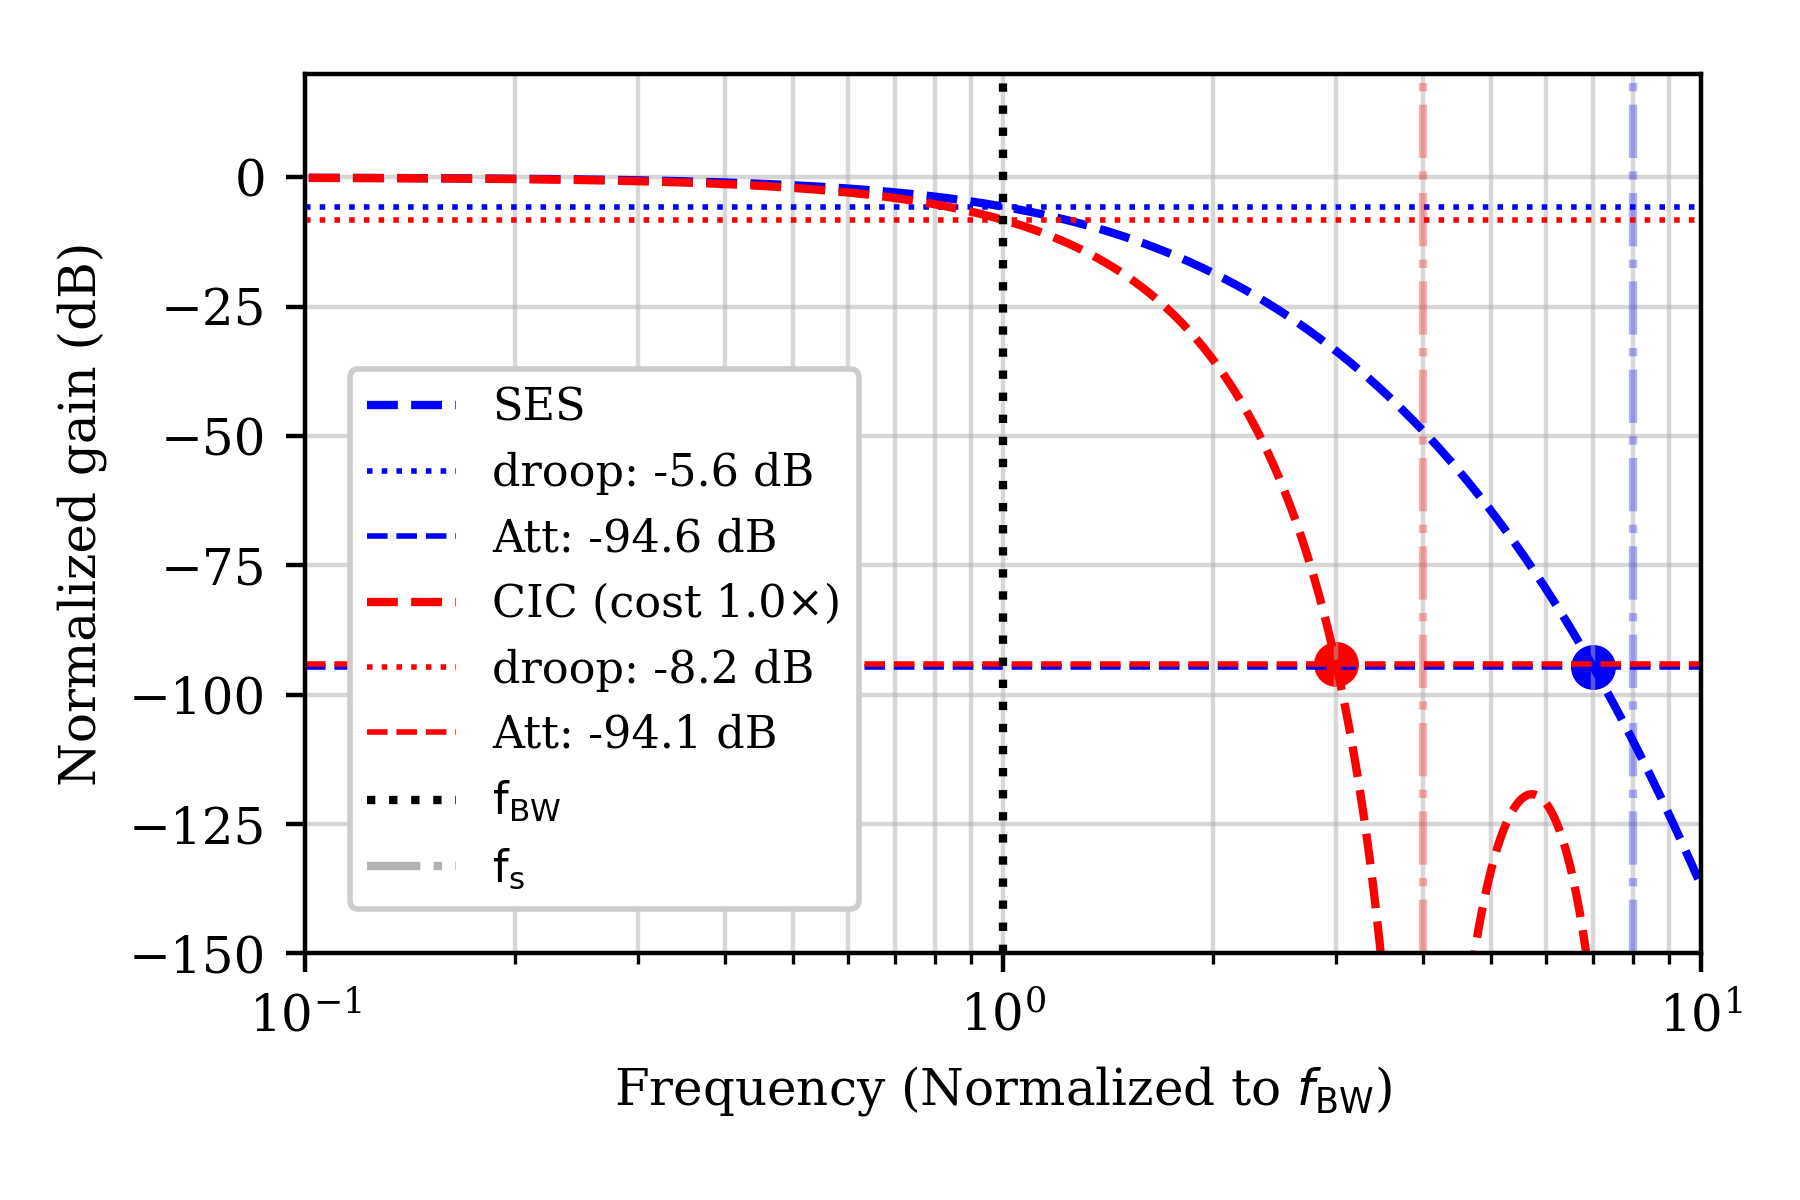
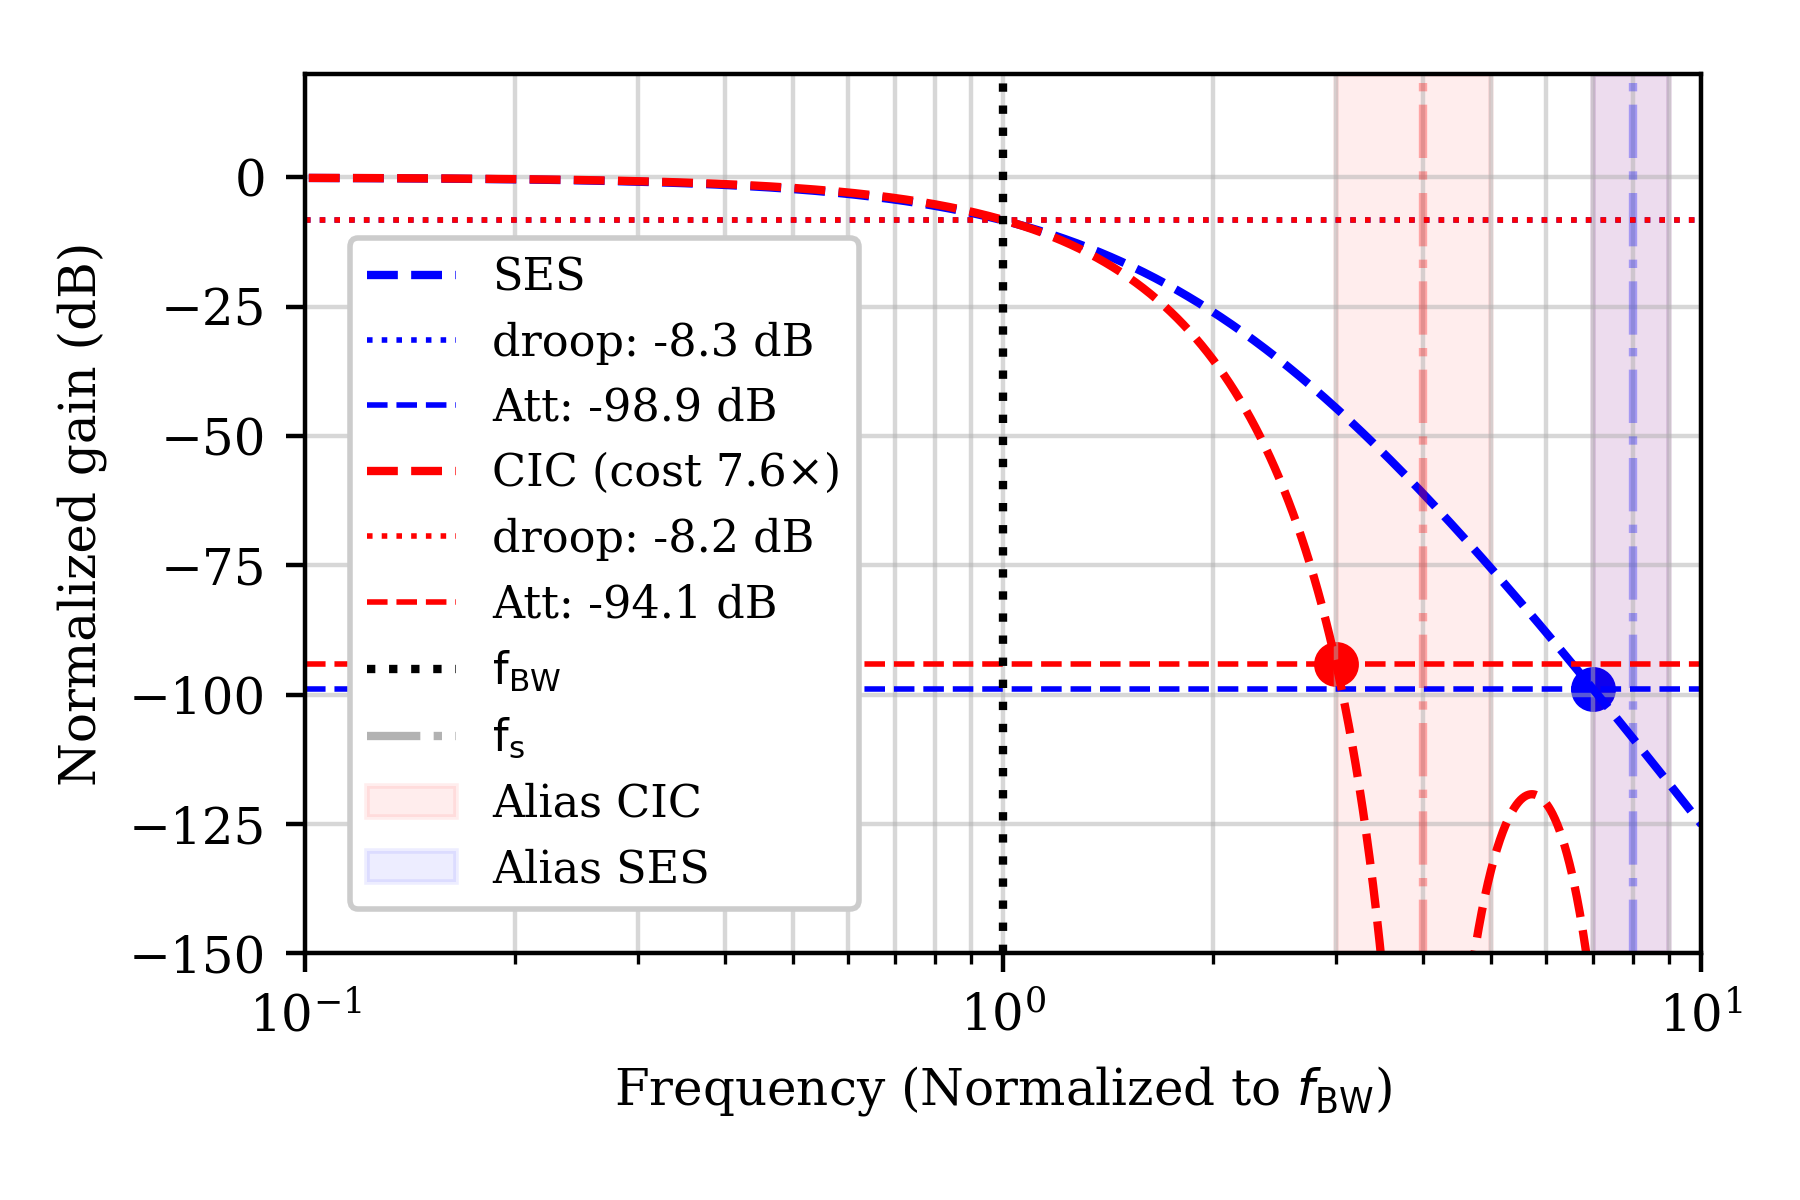
Comparison

diff --git a/sw/applications/dsm/extdriven_exploration/process_psd.py b/sw/applications/dsm/extdriven_exploration/process_psd.py
@@ -475,19 +475,33 @@ def H_z_CIC(N, D, R, fs=1e6):
 
 compare_cost    = 0
 compare_droop   = 0
-compare_atte    = 1
+compare_atte    = 0
+compare_test    = 1
 
 if compare_cost:
     # SES params
     ses_wg = 16
-    ses_n1 = 6
+    ses_n1 = 9
     ses_n2 = 0
     ses_ww = 4
     ses_df = 25
     # CIC params
     cic_df = 50
     cic_d  = 1
-    cic_n  = 6
+    cic_n  = 9
+
+
+if compare_cost:
+    # SES params
+    ses_wg = 16
+    ses_n1 = 9
+    ses_n2 = 0
+    ses_ww = 4
+    ses_df = 25
+    # CIC params
+    cic_df = 50
+    cic_d  = 1
+    cic_n  = 9
 
 if compare_droop:
     # SES params
@@ -569,17 +583,18 @@ axs.axvline(1,linestyle=':', linewidth=1.5, color='black', label=r'$\text{f}_\te
 axs.axvline(0,linestyle='-.', linewidth=1.5, color='black', alpha=0.3, label=r'$\text{f}_\text{s}$')
 
 
-# for k in range(1, int(cic_df/2)+1):
-#         fc = (k * fs_Hz / cic_df)
-#         width = (fnyq_Hz)
-#         plt.axvspan(fc - width/2, fc + width/2, color='red', alpha=0.07,
-#                     label='Alias CIC' if k==1 else "")
+for k in range(1, int(cic_df/2)+1):
 
-# for k in range(1, int(ses_df/2)+1):
-#         fc = (k * fs_Hz / ses_df)
-#         width = (fnyq_Hz)
-#         plt.axvspan(fc - width/2, fc + width/2, color='blue', alpha=0.07,
-#                     label='Alias SES' if k==1 else "")
+        fc = (k * fs_Hz /fbw_Hz/ cic_df)
+        width = (fnyq_Hz/fbw_Hz)
+        plt.axvspan(fc - width/2, fc + width/2, color='red', alpha=0.07,
+                    label='Alias CIC' if k==1 else "")
+
+for k in range(1, int(ses_df/2)+1):
+        fc = (k * fs_Hz /fbw_Hz/ ses_df)
+        width = (fnyq_Hz/fbw_Hz)
+        plt.axvspan(fc - width/2, fc + width/2, color='blue', alpha=0.07,
+                    label='Alias SES' if k==1 else "")
 
 
 
@@ -597,6 +612,6 @@ plt.ylim(-150,20)
 plt.xlim(1e-1,1e1)
 
 plt.tight_layout()
-plt.savefig(f"./figs/SES_vs_CIC_H(z)_{'cost' if compare_cost else 'droop' if compare_droop else 'att'}.png", dpi=400)
+plt.savefig(f"./figs/SES_vs_CIC_H(z)_{'cost' if compare_cost else 'droop' if compare_droop else 'att' if compare_atte else "test"}.png", dpi=400)
 plt.show()
 
